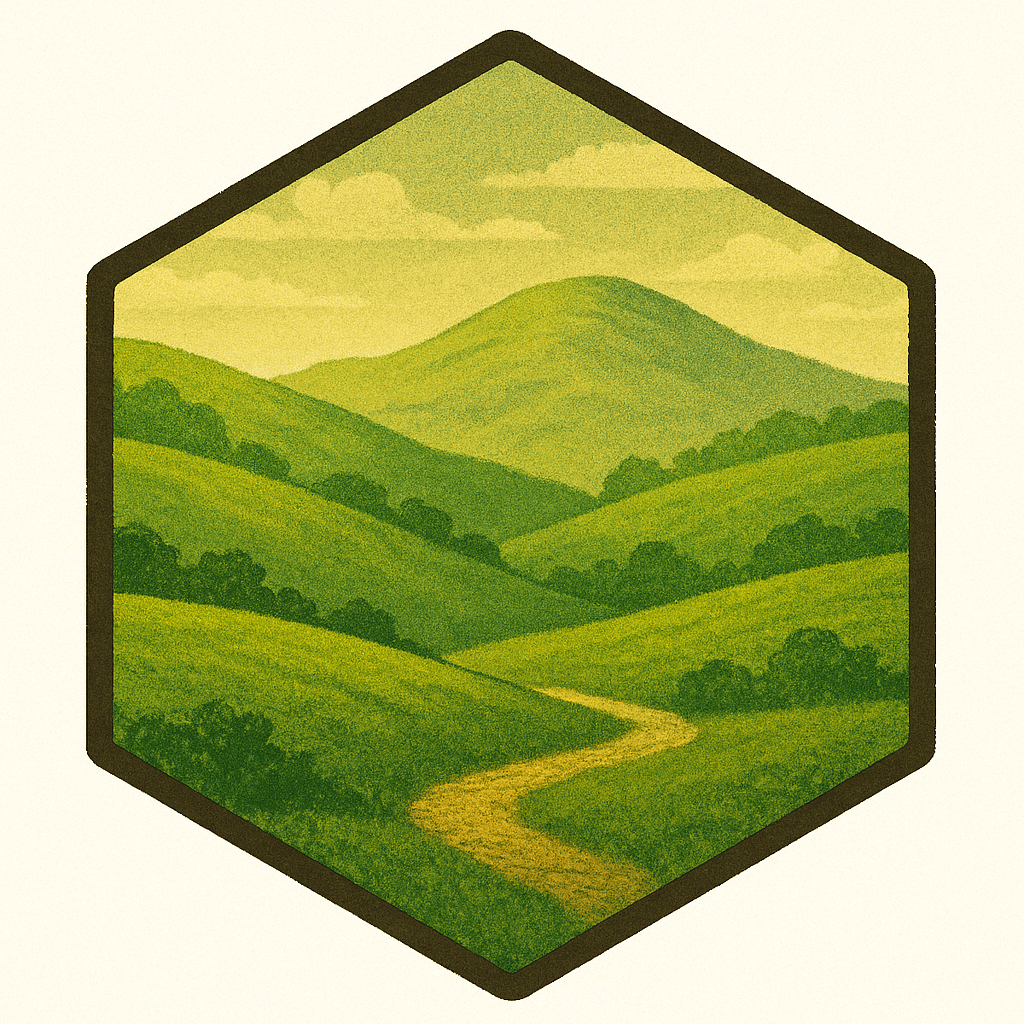
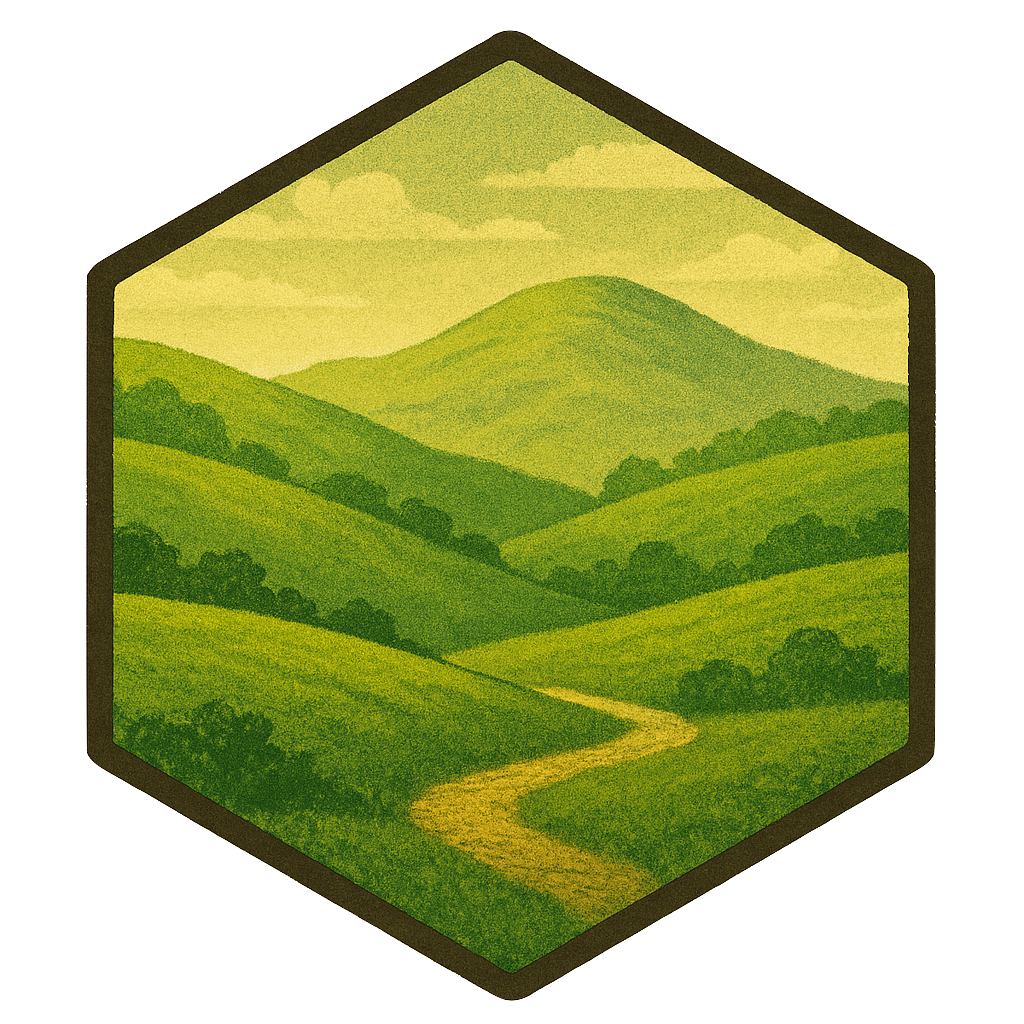
Add background color for controled Lands and remove background from Land Images to make background visible

diff --git a/src/ux-components/battlefield/HexTile.tsx b/src/ux-components/battlefield/HexTile.tsx
@@ -1,8 +1,9 @@
 import React, { useState } from 'react';
 import styles from './css/Hexagonal.module.css';
-import { createTileId, GameState } from '../../types/HexTileState';
+import { createTileId, GameState, getPlayerById } from '../../types/HexTileState';
 import LandCharacteristicsPopup from './LandCharacteristicsPopup';
 import { Position } from '../../map/utils/mapTypes';
+import { PLAYER_COLORS } from '../../types/PlayerColors';
 
 import darkforestImg from '../../assets/map-tiles/darkforest.png';
 import greenforestImg from '../../assets/map-tiles/greenforest.png';
@@ -43,6 +44,19 @@ const HexTile: React.FC<HexTileProps> = ({ battlefieldPosition, gameState }) => 
   const imageSrc = imageMap[battlefieldTile.landType.imageName];
   const altText = battlefieldTile.landType.name;
 
+  // Get the controlling player's color or default to white if not controlled
+  const getBackgroundColor = (): string => {
+    if (!battlefieldTile.controlledBy) {
+      return 'white';
+    }
+    const controllingPlayer = getPlayerById(gameState, battlefieldTile.controlledBy);
+    if (!controllingPlayer) {
+      return 'white';
+    }
+    const playerColor = PLAYER_COLORS.find((color) => color.name === controllingPlayer.color);
+    return playerColor?.value ?? 'white';
+  };
+
   const handleRightClick = (event: React.MouseEvent) => {
     event.preventDefault();
     setPopupPosition({ x: event.clientX, y: event.clientY });
@@ -59,6 +73,7 @@ const HexTile: React.FC<HexTileProps> = ({ battlefieldPosition, gameState }) => 
         className={styles.hexTile}
         title={`${battlefieldTile.landType.name} (${battlefieldTile.landType.alignment})`}
         onContextMenu={handleRightClick}
+        style={{ backgroundColor: getBackgroundColor() }}
       >
         {imageSrc ? (
           <img src={imageSrc} alt={altText} className={styles.hexTileImg} />
